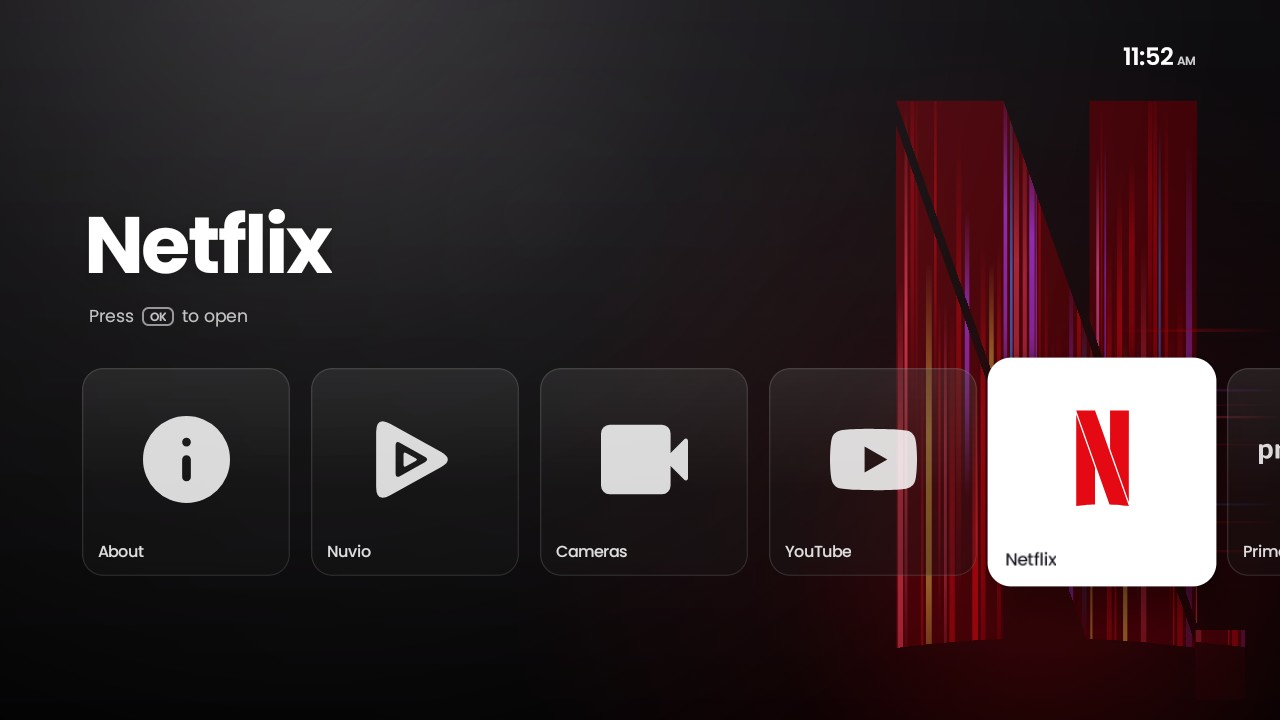
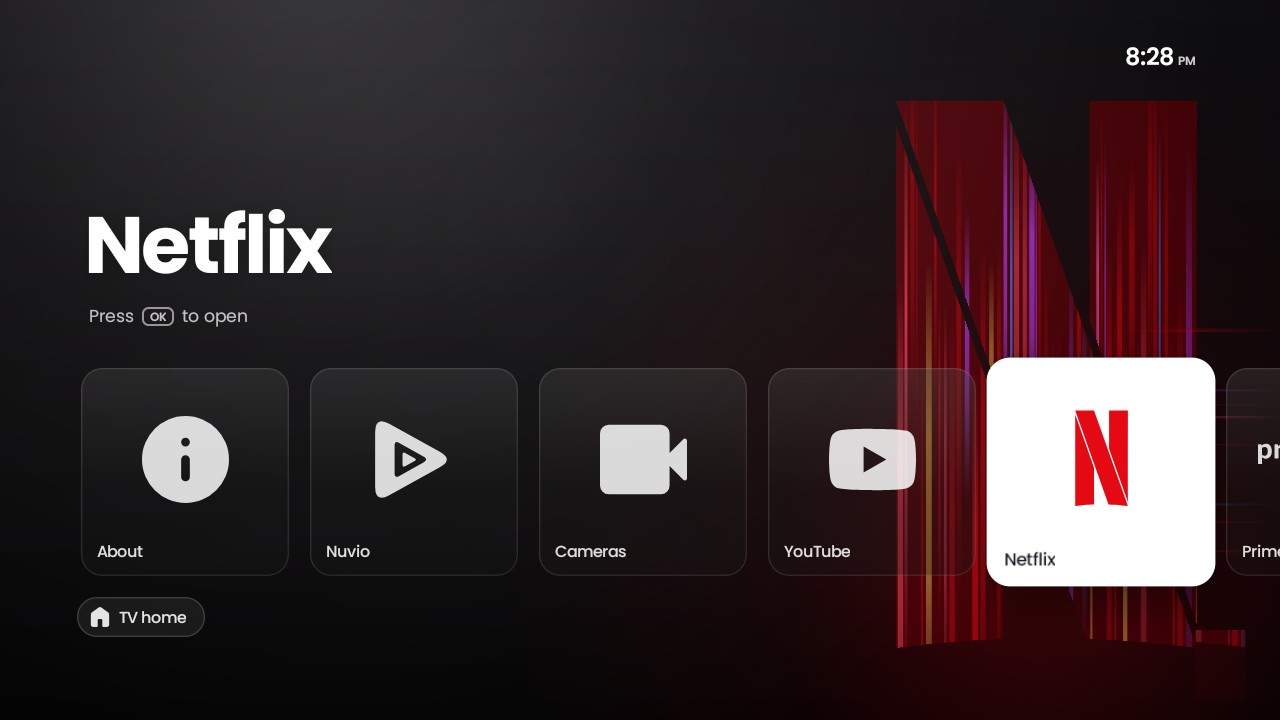
docs: fresh tile tour with pills and Nuvio prism; note apps added on the TV
JioHotstar and Play Store in the tour were added from Launcher settings >
Home row apps on the TV itself, with no PC setup.

diff --git a/README.md b/README.md
@@ -15,7 +15,9 @@ One row of tiles. The whole screen takes on the colours of whatever you select.
 
 <br>
 
-<img src="docs/images/tour.gif" alt="Moving along the tile row: About, Nuvio, Cameras, YouTube, Netflix, Prime Video, All apps and Settings, each with its own background" width="880">
+<img src="docs/images/tour.gif" alt="Moving along the tile row: About, Nuvio, Cameras, YouTube, Netflix, Prime Video, JioHotstar, Play Store, All apps and Settings, each with its own background" width="880">
+
+<sub>📺 <b>JioHotstar</b> and <b>Play Store</b> in this tour were added on the TV itself, from <b>Launcher settings → Home row apps</b>, with just the remote. No computer, no code and no config files were needed.</sub>
 
 </div>
 
@@ -163,7 +165,9 @@ The service only sees button presses and which app is in front. It never reads w
 
 ## Make it yours
 
-Everything on the home row comes from two small JSON files. No code changes are needed.
+**On the TV, no computer needed:** open **Launcher settings** (press <kbd>Menu</kbd>), then **Home row apps** to add any installed app as a tile, or **Shortcuts** to add it as a pill. Type part of its name on the on-screen keyboard and press <kbd>OK</kbd>. That's how JioHotstar and Play Store got onto the row in the tour above.
+
+**In the code:** the built-in tiles come from two small JSON files. No Kotlin changes are needed.
 
 **[`tiles.json`](app/src/main/assets/tiles.json)**: which tiles appear, and in what order.
 
